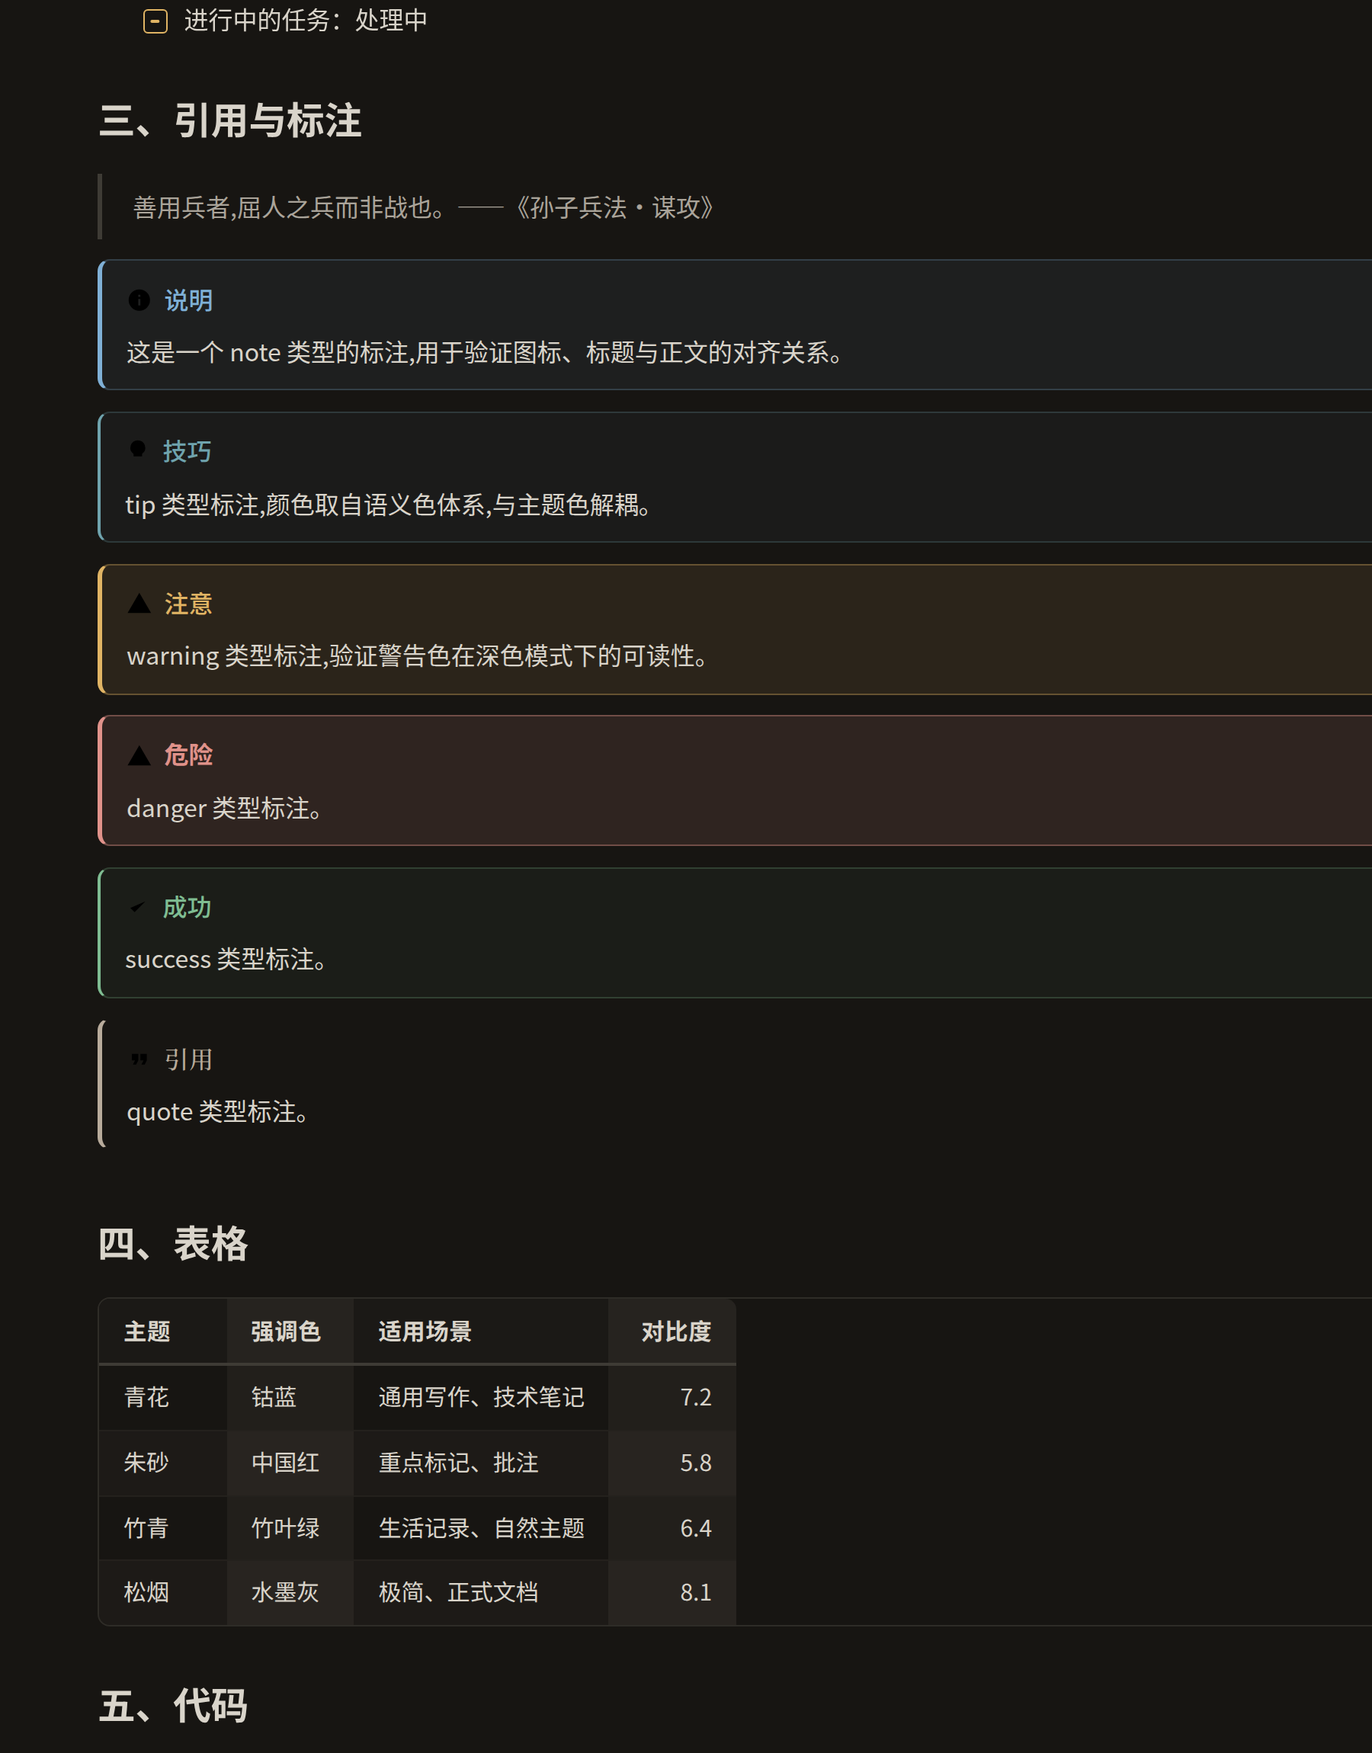
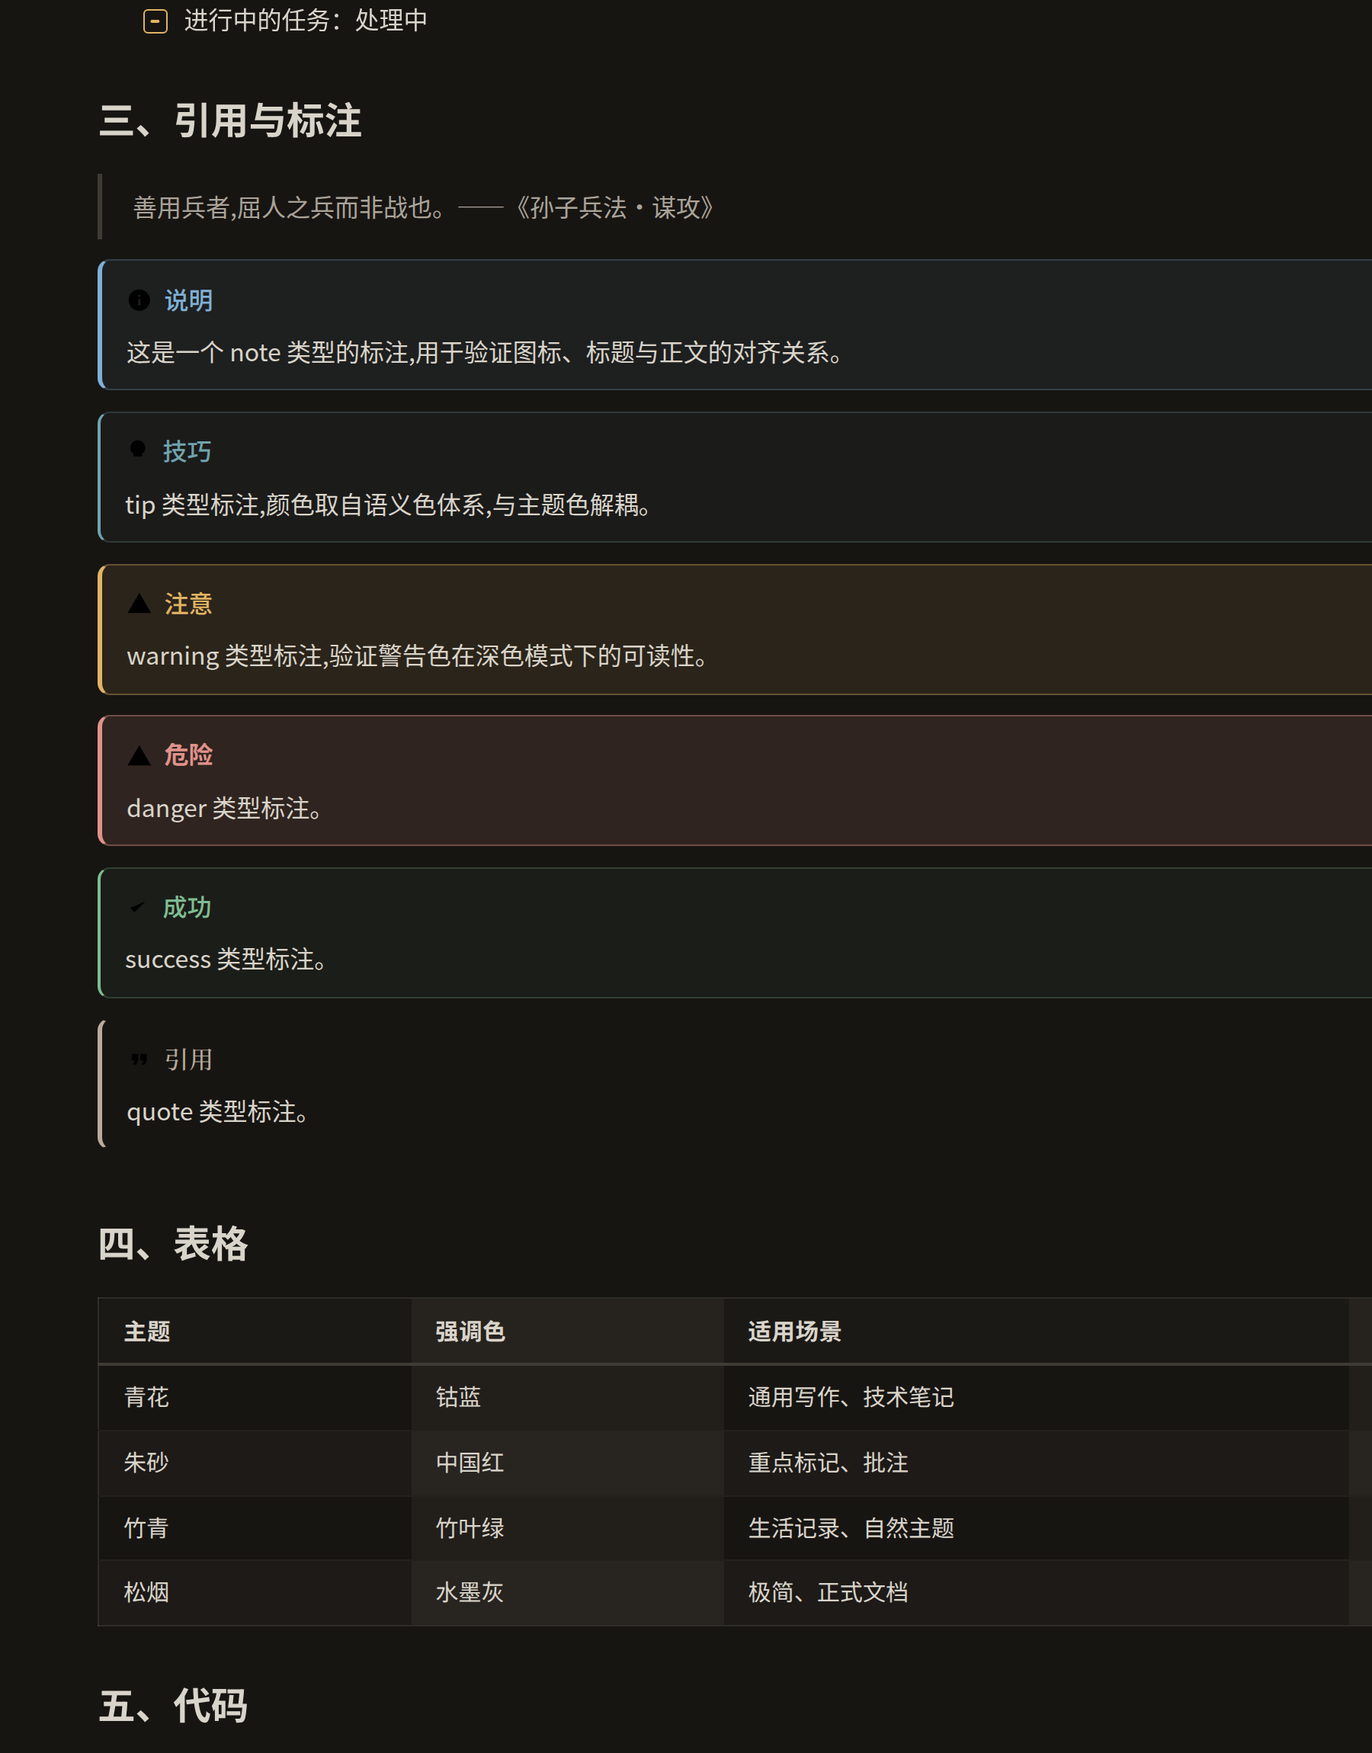
fix(tables): 表格撑满版心，修复远窄于版心的缺陷
用户报告：阅读视图里表格远窄于版心，右侧大片空白，看上去又长又空。

实测定位（验证台测量 4 列表格）：
  修复前 每列 83.6px，4 列共 334px，占版心 28%
  修复后 每列 205/205/410/205px，共 1026px，占版心 98.6%

三个叠加原因，其中两个是主题自身引入：

1. display:block 的隐藏代价（主因）：为了让宽表格能横向滚动，给 table 设了
   display:block + overflow-x:auto。但 <table> 变块级容器后，浏览器会生成匿名
   表格盒子来排列单元格，那个盒子的宽度仍由内容决定 —— 于是边框底色撑满了版心，
   单元格却挤在左边一小条。改为 display:table + width:100%，由浏览器按各列内容
   比例分配版心宽度。
2. --table-column-max-width 被误设为 46ch（原生为 none），已恢复原生语义。
3. td/th 上的 max-width:24em 进一步卡窄列宽，已移除。

宽表格退路：列数 >=6 时用 :has() 分流回「按内容宽度 + 横向滚动」，
避免强行撑满把每列压到读不成句。

回归防线：验证台新增 2 条断言（共 30 项），第二条专门抓「边框撑满、内容挤在
左边」这个具体缺陷。断言的基准必须是容器内容区宽度而非外框宽度 —— 版心有 64px
内边距，用外框当基准会把已撑满误判为没撑满。

diff --git a/demo-vault/.obsidian/themes/MoYun/theme.css b/demo-vault/.obsidian/themes/MoYun/theme.css
@@ -1,6 +1,6 @@
 @charset "UTF-8";
 /* ============================================================================
- * MoYun v1.0.3 —— 中文优先的 Obsidian 主题
+ * MoYun v1.0.4 —— 中文优先的 Obsidian 主题
  * 
  * 本文件由 build.mjs 自动生成，请勿直接编辑。
  * 源码位于 src/，修改后执行：node build.mjs
@@ -496,7 +496,10 @@ body {
   --table-column-last-border-width: 0;
   --table-row-last-border-width: 0;
   --table-column-min-width: 6ch;
-  --table-column-max-width: 46ch;
+  /* 与 Obsidian 原生保持一致：none 表示列宽无上限。
+   * 曾误设为 46ch（约 23 个汉字），直接把每列卡死，表格远窄于版心 ——
+   * 表格能否撑满应由 width 决定，不该靠 max-width 去限制列。 */
+  --table-column-max-width: none;
   --table-selection: var(--my-surface-selected);
   --table-selection-border-color: var(--my-accent);
   --table-selection-border-width: 2px;
@@ -5405,16 +5408,28 @@ body.my-image-caption .markdown-rendered :is(.image-embed, .media-embed)[alt]::b
  * ========================================================================== */
 
 /* ==========================================================================
- * 一、表格容器与横向滚动
- * 难点：阅读视图里表格没有包裹元素（实时预览才有 .table-wrapper），
- * 而 <table> 自身默认不是滚动容器，列一多就会撑破版心、正文被迫横向滚动。
- * 做法：让 table 变成块级滚动容器。border-collapse 是可继承属性，
- * 内部的匿名表格盒子会继承它，所以单元格边框仍然是合并的，观感不变。
+ * 一、表格容器：撑满版心，宽表格退化为横向滚动
+ * ----------------------------------------------------------------------------
+ * 这是本模块最容易做错的一处，把踩过的坑记在这里：
+ *
+ *   社区常见做法是给 table 一句 display:block + overflow-x:auto 来解决
+ *   「列多时撑破版心」。但它有隐藏代价 —— <table> 变成块级容器后，浏览器会为它
+ *   生成一个【匿名表格盒子】来排列单元格，而那个盒子的宽度仍由内容决定。结果是
+ *   边框与底色撑满了版心，单元格却挤在左边一小条。实测 4 列表格每列只有 83.6px
+ *   （正好等于 min-width），整张表只占版心 28%，看上去「又长又空」。
+ *
+ *   正确做法是让表格保持表格布局并显式撑满：display:table + width:100%。
+ *   此时浏览器把版心宽度按各列内容比例分配，列宽总和恰好 100%。
+ *
+ * 例外是列数很多时：强行撑满会把每列压到两三个字、读不成句。故用 :has()
+ * 检测列数，≥6 列时退回「按内容宽度 + 可横向滚动」的模式。
  * ======================================================================== */
 .markdown-rendered table {
-  display: block;
-  overflow-x: auto;
-  max-width: 100%;
+  display: table;
+  /* 撑满版心。列宽由浏览器按内容比例分配（table-layout:auto 是默认值，
+   * 显式写出以表明意图） */
+  width: 100%;
+  table-layout: auto;
   margin-block: var(--p-spacing) calc(var(--p-spacing) * 1.25);
   border: var(--table-border-width) solid var(--table-border-color);
   border-radius: var(--my-radius-m);
@@ -5422,6 +5437,18 @@ body.my-image-caption .markdown-rendered :is(.image-embed, .media-embed)[alt]::b
   /* 表格里的数字必须等宽：中文说明列里的 1 与 10 若宽度不同，整列看上去是歪的 */
   font-variant-numeric: tabular-nums;
   -webkit-overflow-scrolling: touch;
+}
+
+/* 宽表格（≥6 列）改回滚动模式。
+ * width: max-content 让内容按自身需要展开，min-width: 100% 保证内容不多时仍撑满，
+ * 两者取大值 —— 于是「内容少就撑满、内容多就滚动」，不会把列压到读不成句。
+ * 用 :has() 按列数分流，是本主题能用上现代 CSS 的一个典型场景。 */
+.markdown-rendered table:has(> thead > tr > th:nth-child(6)) {
+  display: block;
+  overflow-x: auto;
+  width: max-content;
+  min-width: 100%;
+  max-width: 100%;
 }
 
 /* 表格内滚动条的滚动留白，避免最后一列贴住滚动条 */
@@ -5478,8 +5505,9 @@ body.my-image-caption .markdown-rendered :is(.image-embed, .media-embed)[alt]::b
   /* 最小列宽用 em 而不是 ch：ch 按数字 0 的宽度算，
    * 一个汉字约等于 2ch，用 ch 会让中文列窄到只剩两三个字。 */
   min-width: 5.5em;
-  /* 最大行宽：约 24 个汉字换行，超过就需要来回找行首 */
-  max-width: 24em;
+  /* 刻意不设 max-width：表格已由 width:100% 撑满版心，列宽交给浏览器按内容比例
+   * 分配。此前设过 max-width:24em，在一次 4 列表格里直接把列卡到 83.6px，
+   * 整张表只占版心 28% —— 限制列宽应当用布局手段，而不是给单元格加硬上限。 */
   vertical-align: var(--table-cell-vertical-alignment);
   line-height: var(--table-line-height);
   /* 单元格里的中文同样要避头尾与智能断词 */

diff --git a/theme.css b/theme.css
@@ -1,6 +1,6 @@
 @charset "UTF-8";
 /* ============================================================================
- * MoYun v1.0.3 —— 中文优先的 Obsidian 主题
+ * MoYun v1.0.4 —— 中文优先的 Obsidian 主题
  * 
  * 本文件由 build.mjs 自动生成，请勿直接编辑。
  * 源码位于 src/，修改后执行：node build.mjs
@@ -496,7 +496,10 @@ body {
   --table-column-last-border-width: 0;
   --table-row-last-border-width: 0;
   --table-column-min-width: 6ch;
-  --table-column-max-width: 46ch;
+  /* 与 Obsidian 原生保持一致：none 表示列宽无上限。
+   * 曾误设为 46ch（约 23 个汉字），直接把每列卡死，表格远窄于版心 ——
+   * 表格能否撑满应由 width 决定，不该靠 max-width 去限制列。 */
+  --table-column-max-width: none;
   --table-selection: var(--my-surface-selected);
   --table-selection-border-color: var(--my-accent);
   --table-selection-border-width: 2px;
@@ -5405,16 +5408,28 @@ body.my-image-caption .markdown-rendered :is(.image-embed, .media-embed)[alt]::b
  * ========================================================================== */
 
 /* ==========================================================================
- * 一、表格容器与横向滚动
- * 难点：阅读视图里表格没有包裹元素（实时预览才有 .table-wrapper），
- * 而 <table> 自身默认不是滚动容器，列一多就会撑破版心、正文被迫横向滚动。
- * 做法：让 table 变成块级滚动容器。border-collapse 是可继承属性，
- * 内部的匿名表格盒子会继承它，所以单元格边框仍然是合并的，观感不变。
+ * 一、表格容器：撑满版心，宽表格退化为横向滚动
+ * ----------------------------------------------------------------------------
+ * 这是本模块最容易做错的一处，把踩过的坑记在这里：
+ *
+ *   社区常见做法是给 table 一句 display:block + overflow-x:auto 来解决
+ *   「列多时撑破版心」。但它有隐藏代价 —— <table> 变成块级容器后，浏览器会为它
+ *   生成一个【匿名表格盒子】来排列单元格，而那个盒子的宽度仍由内容决定。结果是
+ *   边框与底色撑满了版心，单元格却挤在左边一小条。实测 4 列表格每列只有 83.6px
+ *   （正好等于 min-width），整张表只占版心 28%，看上去「又长又空」。
+ *
+ *   正确做法是让表格保持表格布局并显式撑满：display:table + width:100%。
+ *   此时浏览器把版心宽度按各列内容比例分配，列宽总和恰好 100%。
+ *
+ * 例外是列数很多时：强行撑满会把每列压到两三个字、读不成句。故用 :has()
+ * 检测列数，≥6 列时退回「按内容宽度 + 可横向滚动」的模式。
  * ======================================================================== */
 .markdown-rendered table {
-  display: block;
-  overflow-x: auto;
-  max-width: 100%;
+  display: table;
+  /* 撑满版心。列宽由浏览器按内容比例分配（table-layout:auto 是默认值，
+   * 显式写出以表明意图） */
+  width: 100%;
+  table-layout: auto;
   margin-block: var(--p-spacing) calc(var(--p-spacing) * 1.25);
   border: var(--table-border-width) solid var(--table-border-color);
   border-radius: var(--my-radius-m);
@@ -5422,6 +5437,18 @@ body.my-image-caption .markdown-rendered :is(.image-embed, .media-embed)[alt]::b
   /* 表格里的数字必须等宽：中文说明列里的 1 与 10 若宽度不同，整列看上去是歪的 */
   font-variant-numeric: tabular-nums;
   -webkit-overflow-scrolling: touch;
+}
+
+/* 宽表格（≥6 列）改回滚动模式。
+ * width: max-content 让内容按自身需要展开，min-width: 100% 保证内容不多时仍撑满，
+ * 两者取大值 —— 于是「内容少就撑满、内容多就滚动」，不会把列压到读不成句。
+ * 用 :has() 按列数分流，是本主题能用上现代 CSS 的一个典型场景。 */
+.markdown-rendered table:has(> thead > tr > th:nth-child(6)) {
+  display: block;
+  overflow-x: auto;
+  width: max-content;
+  min-width: 100%;
+  max-width: 100%;
 }
 
 /* 表格内滚动条的滚动留白，避免最后一列贴住滚动条 */
@@ -5478,8 +5505,9 @@ body.my-image-caption .markdown-rendered :is(.image-embed, .media-embed)[alt]::b
   /* 最小列宽用 em 而不是 ch：ch 按数字 0 的宽度算，
    * 一个汉字约等于 2ch，用 ch 会让中文列窄到只剩两三个字。 */
   min-width: 5.5em;
-  /* 最大行宽：约 24 个汉字换行，超过就需要来回找行首 */
-  max-width: 24em;
+  /* 刻意不设 max-width：表格已由 width:100% 撑满版心，列宽交给浏览器按内容比例
+   * 分配。此前设过 max-width:24em，在一次 4 列表格里直接把列卡到 83.6px，
+   * 整张表只占版心 28% —— 限制列宽应当用布局手段，而不是给单元格加硬上限。 */
   vertical-align: var(--table-cell-vertical-alignment);
   line-height: var(--table-line-height);
   /* 单元格里的中文同样要避头尾与智能断词 */

diff --git a/src/30-editor/tables.css b/src/30-editor/tables.css
@@ -17,16 +17,28 @@
  * ========================================================================== */
 
 /* ==========================================================================
- * 一、表格容器与横向滚动
- * 难点：阅读视图里表格没有包裹元素（实时预览才有 .table-wrapper），
- * 而 <table> 自身默认不是滚动容器，列一多就会撑破版心、正文被迫横向滚动。
- * 做法：让 table 变成块级滚动容器。border-collapse 是可继承属性，
- * 内部的匿名表格盒子会继承它，所以单元格边框仍然是合并的，观感不变。
+ * 一、表格容器：撑满版心，宽表格退化为横向滚动
+ * ----------------------------------------------------------------------------
+ * 这是本模块最容易做错的一处，把踩过的坑记在这里：
+ *
+ *   社区常见做法是给 table 一句 display:block + overflow-x:auto 来解决
+ *   「列多时撑破版心」。但它有隐藏代价 —— <table> 变成块级容器后，浏览器会为它
+ *   生成一个【匿名表格盒子】来排列单元格，而那个盒子的宽度仍由内容决定。结果是
+ *   边框与底色撑满了版心，单元格却挤在左边一小条。实测 4 列表格每列只有 83.6px
+ *   （正好等于 min-width），整张表只占版心 28%，看上去「又长又空」。
+ *
+ *   正确做法是让表格保持表格布局并显式撑满：display:table + width:100%。
+ *   此时浏览器把版心宽度按各列内容比例分配，列宽总和恰好 100%。
+ *
+ * 例外是列数很多时：强行撑满会把每列压到两三个字、读不成句。故用 :has()
+ * 检测列数，≥6 列时退回「按内容宽度 + 可横向滚动」的模式。
  * ======================================================================== */
 .markdown-rendered table {
-  display: block;
-  overflow-x: auto;
-  max-width: 100%;
+  display: table;
+  /* 撑满版心。列宽由浏览器按内容比例分配（table-layout:auto 是默认值，
+   * 显式写出以表明意图） */
+  width: 100%;
+  table-layout: auto;
   margin-block: var(--p-spacing) calc(var(--p-spacing) * 1.25);
   border: var(--table-border-width) solid var(--table-border-color);
   border-radius: var(--my-radius-m);
@@ -34,6 +46,18 @@
   /* 表格里的数字必须等宽：中文说明列里的 1 与 10 若宽度不同，整列看上去是歪的 */
   font-variant-numeric: tabular-nums;
   -webkit-overflow-scrolling: touch;
+}
+
+/* 宽表格（≥6 列）改回滚动模式。
+ * width: max-content 让内容按自身需要展开，min-width: 100% 保证内容不多时仍撑满，
+ * 两者取大值 —— 于是「内容少就撑满、内容多就滚动」，不会把列压到读不成句。
+ * 用 :has() 按列数分流，是本主题能用上现代 CSS 的一个典型场景。 */
+.markdown-rendered table:has(> thead > tr > th:nth-child(6)) {
+  display: block;
+  overflow-x: auto;
+  width: max-content;
+  min-width: 100%;
+  max-width: 100%;
 }
 
 /* 表格内滚动条的滚动留白，避免最后一列贴住滚动条 */
@@ -90,8 +114,9 @@
   /* 最小列宽用 em 而不是 ch：ch 按数字 0 的宽度算，
    * 一个汉字约等于 2ch，用 ch 会让中文列窄到只剩两三个字。 */
   min-width: 5.5em;
-  /* 最大行宽：约 24 个汉字换行，超过就需要来回找行首 */
-  max-width: 24em;
+  /* 刻意不设 max-width：表格已由 width:100% 撑满版心，列宽交给浏览器按内容比例
+   * 分配。此前设过 max-width:24em，在一次 4 列表格里直接把列卡到 83.6px，
+   * 整张表只占版心 28% —— 限制列宽应当用布局手段，而不是给单元格加硬上限。 */
   vertical-align: var(--table-cell-vertical-alignment);
   line-height: var(--table-line-height);
   /* 单元格里的中文同样要避头尾与智能断词 */

diff --git a/src/00-tokens/obsidian-map.css b/src/00-tokens/obsidian-map.css
@@ -484,7 +484,10 @@ body {
   --table-column-last-border-width: 0;
   --table-row-last-border-width: 0;
   --table-column-min-width: 6ch;
-  --table-column-max-width: 46ch;
+  /* 与 Obsidian 原生保持一致：none 表示列宽无上限。
+   * 曾误设为 46ch（约 23 个汉字），直接把每列卡死，表格远窄于版心 ——
+   * 表格能否撑满应由 width 决定，不该靠 max-width 去限制列。 */
+  --table-column-max-width: none;
   --table-selection: var(--my-surface-selected);
   --table-selection-border-color: var(--my-accent);
   --table-selection-border-width: 2px;

diff --git a/CHANGELOG.md b/CHANGELOG.md
@@ -2,6 +2,49 @@
 
 本项目的版本号遵循 [语义化版本](https://semver.org/lang/zh-CN/)。
 
+## [1.0.4] - 2026-09-16
+
+### 修复：表格远窄于版心（用户报告）
+
+现象：阅读视图里的表格远窄于版心，右侧留出大片空白，看上去「又长又空」。
+
+实测定位（验证台测量 4 列表格）：
+
+```
+版心内容区宽度   1042px
+修复前每列宽度     83.6px   →  4 列共 334px，只占版心 28%
+修复后每列宽度    205/205/410/205px  →  共 1026px，占版心 98.6%
+```
+
+三个叠加的原因，其中两个是主题自身引入的：
+
+1. **`display: block` 的隐藏代价（主因）** —— 此前为了让宽表格能横向滚动，给
+   `table` 设了 `display: block; overflow-x: auto`。但 `<table>` 一旦变成块级容器，
+   浏览器会为它生成一个**匿名表格盒子**来排列单元格，而那个盒子的宽度仍由内容
+   决定。结果是边框、底色撑满了版心，单元格却挤在左边一小条。
+   改为 `display: table; width: 100%`，让浏览器把版心宽度按各列内容比例分配。
+
+2. **误设的列宽上限** —— `--table-column-max-width` 被设为 `46ch`（约 23 个汉字），
+   而 Obsidian 原生值是 `none`。已恢复原生语义。
+
+3. **过严的单格宽度上限** —— `td/th` 上有 `max-width: 24em`，进一步把列卡窄。已移除。
+
+### 宽表格的退路
+
+撑满不适用于列数很多的表格（会把每列压到两三个字、读不成句）。因此新增
+`:has()` 分流：列数 ≥6 时退回「按内容宽度 + 可横向滚动」，其余情况一律撑满。
+
+### 回归防线
+
+验证台新增 2 条断言（现共 30 项），其中第二条专门抓「边框撑满、内容挤在左边」
+这个具体缺陷，避免以后换写法时重犯：
+
+- 表格撑满版心（≥ 内容区的 95%）
+- 表格列宽总和撑满（防止「边框撑满、内容挤在左边」）
+
+> 注：断言的基准必须是容器的**内容区**宽度。版心有 64px 左右内边距，
+> 用外框宽度当基准会把「已经撑满」误判为没撑满 —— 这个坑在本次修复中也踩到了。
+
 ## [1.0.3] - 2026-09-16
 
 ### 主题改名（为符合官方目录的命名规范）
